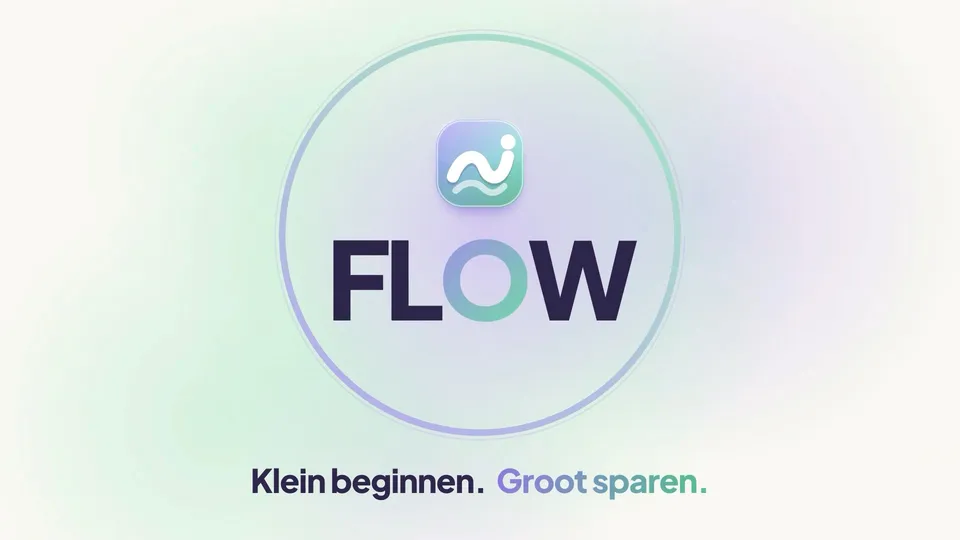
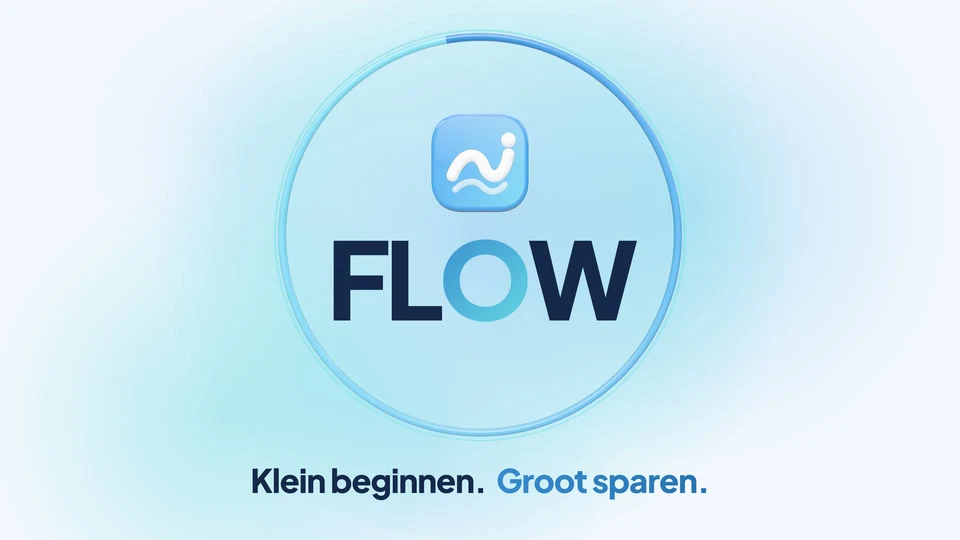
FLOW: nieuwe 3D-video (lichtblauw) + nieuwe poster

diff --git a/index.html b/index.html
@@ -33,7 +33,7 @@
 <link rel="stylesheet" href="/assets/css/main.css?v=7d7f9968">
 <script>document.documentElement.classList.add('js')</script>
 <script data-goatcounter="https://storiomedia.goatcounter.com/count" async src="https://gc.zgo.at/count.js"></script>
-<script type="application/ld+json">{"@context": "https://schema.org", "@graph": [{"@type": "Organization", "@id": "https://storiomedia.nl/#organization", "name": "Storio Media", "url": "https://storiomedia.nl", "logo": {"@type": "ImageObject", "url": "https://storiomedia.nl/assets/img/favicon.png"}, "image": "https://storiomedia.nl/assets/media/og-storio.jpg", "slogan": "Video's die opvallen. Slim gemaakt met AI.", "description": "Storio Media is een creatief videoproductiebedrijf dat hoogwaardige AI-video's maakt voor bedrijven, merken en organisaties: van concept en script tot AI-generatie, voice-over en montage.", "email": "info@storiomedia.nl", "telephone": "+31651969025", "foundingDate": "2026", "founder": {"@id": "https://storiomedia.nl/#hielke"}, "address": {"@type": "PostalAddress", "addressLocality": "Utrecht", "addressCountry": "NL"}, "contactPoint": {"@type": "ContactPoint", "contactType": "sales", "email": "info@storiomedia.nl", "telephone": "+31651969025", "availableLanguage": ["nl", "en"]}, "brand": {"@type": "Brand", "name": "Storio Media", "slogan": "Video's die opvallen. Slim gemaakt met AI."}, "parentOrganization": {"@type": "Organization", "name": "Storio", "url": "https://storiopodcasts.nl"}, "areaServed": {"@type": "Country", "name": "Nederland"}, "sameAs": ["https://www.linkedin.com/company/storiomedia/", "https://www.instagram.com/storiomedia/", "https://www.youtube.com/@StorioMedia"], "knowsAbout": ["AI-videoproductie", "generatieve AI video", "AI bedrijfsfilm", "AI commercial", "AI animatie", "videomontage", "voice-over", "sound design"], "hasOfferCatalog": {"@type": "OfferCatalog", "name": "AI-videoproductie", "itemListElement": [{"@type": "Offer", "name": "AI-video 30 seconden", "price": 600, "priceCurrency": "EUR", "priceSpecification": {"@type": "PriceSpecification", "price": 600, "priceCurrency": "EUR", "valueAddedTaxIncluded": false}, "itemOffered": {"@type": "Service", "name": "AI-video van 30 seconden", "description": "Ideaal voor social, een commercial of een korte merkvideo."}}, {"@type": "Offer", "name": "AI-video 1 minuut", "price": 1000, "priceCurrency": "EUR", "priceSpecification": {"@type": "PriceSpecification", "price": 1000, "priceCurrency": "EUR", "valueAddedTaxIncluded": false}, "itemOffered": {"@type": "Service", "name": "AI-video van 1 minuut", "description": "Ruimte voor een verhaal: explainer, bedrijfsfilm of launch."}}, {"@type": "Offer", "itemOffered": {"@type": "Service", "name": "Concept & Script", "description": "Doel, doelgroep en boodschap vertaald naar een sterk concept en script."}}, {"@type": "Offer", "itemOffered": {"@type": "Service", "name": "AI Video Production", "description": "Scènes, personages en locaties in één consistente beeldstijl."}}, {"@type": "Offer", "itemOffered": {"@type": "Service", "name": "Voice & Audio", "description": "Voice-over, muziek en sound design. Onze roots liggen in audio."}}, {"@type": "Offer", "itemOffered": {"@type": "Service", "name": "Editing & Post-production", "description": "Montage, kleur, titels, graphics en animatie tot één film."}}, {"@type": "Offer", "itemOffered": {"@type": "Service", "name": "Social & Variaties", "description": "Versies voor elk kanaal, formaat en elke taal, uit één productie."}}]}}, {"@type": "Person", "@id": "https://storiomedia.nl/#hielke", "name": "Hielke Boersma", "jobTitle": "Oprichter Storio Media", "description": "Radio-dj bij SLAM!, presentator, dagvoorzitter en voice-over; oprichter van Storio Media en Storio Podcasts.", "image": "https://storiomedia.nl/assets/img/hielke.jpg", "url": "https://storiomedia.nl/over-storio-media/", "worksFor": {"@id": "https://storiomedia.nl/#organization"}, "knowsAbout": ["AI-videoproductie", "videomarketing", "voice-over", "podcastproductie", "radio", "presentatie"], "sameAs": ["https://hielkeboersma.com", "https://storiopodcasts.nl"]}, {"@type": "WebSite", "@id": "https://storiomedia.nl/#website", "url": "https://storiomedia.nl", "name": "Storio Media", "inLanguage": "nl-NL", "publisher": {"@id": "https://storiomedia.nl/#organization"}}, {"@type": "WebPage", "@id": "https://storiomedia.nl/#webpage", "url": "https://storiomedia.nl/", "name": "AI-video laten maken vanaf € 600 | Storio Media", "description": "Storio Media maakt met AI complete video's voor bedrijven: commercials, bedrijfsfilms, explainers en social content. 30 seconden € 600, 1 minuut € 1.000.", "isPartOf": {"@id": "https://storiomedia.nl/#website"}, "about": {"@id": "https://storiomedia.nl/#organization"}, "inLanguage": "nl-NL"}, {"@type": "FAQPage", "mainEntity": [{"@type": "Question", "name": "Wat is een AI-video?", "acceptedAnswer": {"@type": "Answer", "text": "Een AI-video is een video waarvan de beelden, en vaak ook de stem en muziek, met generatieve AI worden gemaakt. Bij Storio Media combineren we die techniek met vakmanschap: we schrijven het concept en script, bepalen de beeldstijl, maken de scènes en monteren alles tot een professionele bedrijfsfilm, commercial of explainer."}}, {"@type": "Question", "name": "Wat kost een AI-video laten maken?", "acceptedAnswer": {"@type": "Answer", "text": "Een video van 30 seconden kost € 600 en een video van 1 minuut € 1.000 (excl. btw). Daarin zit alles: concept en script, de AI-beelden, voice-over, muziek en montage. Wil je een langere video of meerdere versies? Dan krijg je een voorstel op maat."}}, {"@type": "Question", "name": "Hoe lang duurt het om een AI-video te maken?", "acceptedAnswer": {"@type": "Answer", "text": "Een gemiddelde productie van briefing tot eindfilm duurt meestal twee tot vier weken. Heb je een deadline? Laat het ons weten, dan plannen we het proces daarop."}}, {"@type": "Question", "name": "Kunnen bestaande beelden worden gecombineerd met AI?", "acceptedAnswer": {"@type": "Answer", "text": "Ja. Bestaand videomateriaal, productfoto's, je huisstijl, logo's en screenshots van software kunnen we verwerken in de productie. Denk aan echte interviews aangevuld met AI-scènes, of een bestaand product dat in een nieuwe omgeving wordt geplaatst. Zo blijft de video herkenbaar van jou."}}, {"@type": "Question", "name": "Kunnen video's in meerdere talen worden gemaakt?", "acceptedAnswer": {"@type": "Answer", "text": "Ja, en dat is een van de grote voordelen van AI-videoproductie. Van één productie maken we eenvoudig versies in het Engels, Duits, Frans of andere talen, inclusief vertaalde voice-over, ondertiteling en aangepaste teksten in beeld. Ideaal voor internationale organisaties die één boodschap in meerdere markten willen brengen."}}, {"@type": "Question", "name": "Is AI-video geschikt voor mijn bedrijf?", "acceptedAnswer": {"@type": "Answer", "text": "AI-video werkt vooral goed als je iets wilt laten zien dat lastig, duur of onmogelijk te filmen is: internationale locaties, toekomstscenario's, complexe processen of producten die nog niet af zijn. Ook als je regelmatig nieuwe videocontent nodig hebt, is het interessant. Voor een eerlijk portret van je team of een klantinterview is een camera soms juist beter. In een kennismaking vertellen we je graag wat bij jouw idee past."}}]}, {"@type": "VideoObject", "name": "VOLTA", "description": "Een explainer van 30 seconden voor VOLTA, een thuisbatterij die je zonnestroom bewaart voor 's avonds. In één doorlopende 3D-doorsnede van een Nederlands rijtjeshuis zie je de dag overgaan in de avond: overdag vullen de zonnepanelen de batterij, 's avonds gaat die stroom naar de keuken, de tv en de auto. Dag en nacht zonnestroom.", "thumbnailUrl": "https://storiomedia.nl/assets/media/cases/volta/poster.jpg", "uploadDate": "2026-01-01", "embedUrl": "https://www.youtube.com/embed/qscBy7h0au4", "creator": {"@id": "https://storiomedia.nl/#organization"}, "genre": "Explainer"}, {"@type": "VideoObject", "name": "New possibilities", "description": "Een launchvideo van bijna twee minuten voor de introductie van een nieuw merk. De film toont een zonsopkomst, mensen aan het werk en toepassingen van technologie, en eindigt met de onthulling van het merk. Alle beelden zijn met AI gemaakt. Storio Media verzorgde concept, productie en montage.", "thumbnailUrl": "https://storiomedia.nl/assets/media/cases/reveal-nieuw-bedrijf/poster.jpg", "uploadDate": "2026-01-01", "embedUrl": "https://www.youtube.com/embed/39-cYFDPtw4", "creator": {"@id": "https://storiomedia.nl/#organization"}, "genre": "Launchvideo"}, {"@type": "VideoObject", "name": "FLOW", "description": "Een explainer van 30 seconden voor FLOW, een spaar-app die je dagelijkse aankopen afrondt en het verschil opzij zet voor je spaardoel. Van het koppelen van je rekening en het kiezen van een spaardoel tot een spaarpot die zich vult: in heldere 3D-animatie laat de video zien hoe makkelijk sparen kan. Klein beginnen. Groot sparen.", "thumbnailUrl": "https://storiomedia.nl/assets/media/cases/flow/poster.jpg", "uploadDate": "2026-01-01", "embedUrl": "https://www.youtube.com/embed/Y5VqYN_y-sk", "creator": {"@id": "https://storiomedia.nl/#organization"}, "genre": "Explainer"}, {"@type": "VideoObject", "name": "Rondje", "description": "Een verticale social-video van 20 seconden voor Rondje, een statiegeldbeker voor koffie in Amsterdam. In een speelse, geanimeerde stadsillustratie reist de beker door de stad: gevuld bij een koffiebar, mee op de pont en de fiets, en ingeleverd bij een ander tentje. Gemaakt voor Reels, TikTok en Shorts. Koffie die rond gaat.", "thumbnailUrl": "https://storiomedia.nl/assets/media/cases/rondje/poster.jpg", "uploadDate": "2026-01-01", "embedUrl": "https://www.youtube.com/embed/qVS526AXBrU", "creator": {"@id": "https://storiomedia.nl/#organization"}, "genre": "Social video"}, {"@type": "VideoObject", "name": "Storio Media: ons nieuwste werk", "description": "Storio Media maakt met AI complete video's voor bedrijven: commercials, bedrijfsfilms, explainers en social content. 30 seconden € 600, 1 minuut € 1.000.", "thumbnailUrl": "https://storiomedia.nl/assets/media/placeholders/showreel.jpg", "uploadDate": "2026-10-19", "embedUrl": "https://www.youtube.com/embed/39-cYFDPtw4"}]}</script>
+<script type="application/ld+json">{"@context": "https://schema.org", "@graph": [{"@type": "Organization", "@id": "https://storiomedia.nl/#organization", "name": "Storio Media", "url": "https://storiomedia.nl", "logo": {"@type": "ImageObject", "url": "https://storiomedia.nl/assets/img/favicon.png"}, "image": "https://storiomedia.nl/assets/media/og-storio.jpg", "slogan": "Video's die opvallen. Slim gemaakt met AI.", "description": "Storio Media is een creatief videoproductiebedrijf dat hoogwaardige AI-video's maakt voor bedrijven, merken en organisaties: van concept en script tot AI-generatie, voice-over en montage.", "email": "info@storiomedia.nl", "telephone": "+31651969025", "foundingDate": "2026", "founder": {"@id": "https://storiomedia.nl/#hielke"}, "address": {"@type": "PostalAddress", "addressLocality": "Utrecht", "addressCountry": "NL"}, "contactPoint": {"@type": "ContactPoint", "contactType": "sales", "email": "info@storiomedia.nl", "telephone": "+31651969025", "availableLanguage": ["nl", "en"]}, "brand": {"@type": "Brand", "name": "Storio Media", "slogan": "Video's die opvallen. Slim gemaakt met AI."}, "parentOrganization": {"@type": "Organization", "name": "Storio", "url": "https://storiopodcasts.nl"}, "areaServed": {"@type": "Country", "name": "Nederland"}, "sameAs": ["https://www.linkedin.com/company/storiomedia/", "https://www.instagram.com/storiomedia/", "https://www.youtube.com/@StorioMedia"], "knowsAbout": ["AI-videoproductie", "generatieve AI video", "AI bedrijfsfilm", "AI commercial", "AI animatie", "videomontage", "voice-over", "sound design"], "hasOfferCatalog": {"@type": "OfferCatalog", "name": "AI-videoproductie", "itemListElement": [{"@type": "Offer", "name": "AI-video 30 seconden", "price": 600, "priceCurrency": "EUR", "priceSpecification": {"@type": "PriceSpecification", "price": 600, "priceCurrency": "EUR", "valueAddedTaxIncluded": false}, "itemOffered": {"@type": "Service", "name": "AI-video van 30 seconden", "description": "Ideaal voor social, een commercial of een korte merkvideo."}}, {"@type": "Offer", "name": "AI-video 1 minuut", "price": 1000, "priceCurrency": "EUR", "priceSpecification": {"@type": "PriceSpecification", "price": 1000, "priceCurrency": "EUR", "valueAddedTaxIncluded": false}, "itemOffered": {"@type": "Service", "name": "AI-video van 1 minuut", "description": "Ruimte voor een verhaal: explainer, bedrijfsfilm of launch."}}, {"@type": "Offer", "itemOffered": {"@type": "Service", "name": "Concept & Script", "description": "Doel, doelgroep en boodschap vertaald naar een sterk concept en script."}}, {"@type": "Offer", "itemOffered": {"@type": "Service", "name": "AI Video Production", "description": "Scènes, personages en locaties in één consistente beeldstijl."}}, {"@type": "Offer", "itemOffered": {"@type": "Service", "name": "Voice & Audio", "description": "Voice-over, muziek en sound design. Onze roots liggen in audio."}}, {"@type": "Offer", "itemOffered": {"@type": "Service", "name": "Editing & Post-production", "description": "Montage, kleur, titels, graphics en animatie tot één film."}}, {"@type": "Offer", "itemOffered": {"@type": "Service", "name": "Social & Variaties", "description": "Versies voor elk kanaal, formaat en elke taal, uit één productie."}}]}}, {"@type": "Person", "@id": "https://storiomedia.nl/#hielke", "name": "Hielke Boersma", "jobTitle": "Oprichter Storio Media", "description": "Radio-dj bij SLAM!, presentator, dagvoorzitter en voice-over; oprichter van Storio Media en Storio Podcasts.", "image": "https://storiomedia.nl/assets/img/hielke.jpg", "url": "https://storiomedia.nl/over-storio-media/", "worksFor": {"@id": "https://storiomedia.nl/#organization"}, "knowsAbout": ["AI-videoproductie", "videomarketing", "voice-over", "podcastproductie", "radio", "presentatie"], "sameAs": ["https://hielkeboersma.com", "https://storiopodcasts.nl"]}, {"@type": "WebSite", "@id": "https://storiomedia.nl/#website", "url": "https://storiomedia.nl", "name": "Storio Media", "inLanguage": "nl-NL", "publisher": {"@id": "https://storiomedia.nl/#organization"}}, {"@type": "WebPage", "@id": "https://storiomedia.nl/#webpage", "url": "https://storiomedia.nl/", "name": "AI-video laten maken vanaf € 600 | Storio Media", "description": "Storio Media maakt met AI complete video's voor bedrijven: commercials, bedrijfsfilms, explainers en social content. 30 seconden € 600, 1 minuut € 1.000.", "isPartOf": {"@id": "https://storiomedia.nl/#website"}, "about": {"@id": "https://storiomedia.nl/#organization"}, "inLanguage": "nl-NL"}, {"@type": "FAQPage", "mainEntity": [{"@type": "Question", "name": "Wat is een AI-video?", "acceptedAnswer": {"@type": "Answer", "text": "Een AI-video is een video waarvan de beelden, en vaak ook de stem en muziek, met generatieve AI worden gemaakt. Bij Storio Media combineren we die techniek met vakmanschap: we schrijven het concept en script, bepalen de beeldstijl, maken de scènes en monteren alles tot een professionele bedrijfsfilm, commercial of explainer."}}, {"@type": "Question", "name": "Wat kost een AI-video laten maken?", "acceptedAnswer": {"@type": "Answer", "text": "Een video van 30 seconden kost € 600 en een video van 1 minuut € 1.000 (excl. btw). Daarin zit alles: concept en script, de AI-beelden, voice-over, muziek en montage. Wil je een langere video of meerdere versies? Dan krijg je een voorstel op maat."}}, {"@type": "Question", "name": "Hoe lang duurt het om een AI-video te maken?", "acceptedAnswer": {"@type": "Answer", "text": "Een gemiddelde productie van briefing tot eindfilm duurt meestal twee tot vier weken. Heb je een deadline? Laat het ons weten, dan plannen we het proces daarop."}}, {"@type": "Question", "name": "Kunnen bestaande beelden worden gecombineerd met AI?", "acceptedAnswer": {"@type": "Answer", "text": "Ja. Bestaand videomateriaal, productfoto's, je huisstijl, logo's en screenshots van software kunnen we verwerken in de productie. Denk aan echte interviews aangevuld met AI-scènes, of een bestaand product dat in een nieuwe omgeving wordt geplaatst. Zo blijft de video herkenbaar van jou."}}, {"@type": "Question", "name": "Kunnen video's in meerdere talen worden gemaakt?", "acceptedAnswer": {"@type": "Answer", "text": "Ja, en dat is een van de grote voordelen van AI-videoproductie. Van één productie maken we eenvoudig versies in het Engels, Duits, Frans of andere talen, inclusief vertaalde voice-over, ondertiteling en aangepaste teksten in beeld. Ideaal voor internationale organisaties die één boodschap in meerdere markten willen brengen."}}, {"@type": "Question", "name": "Is AI-video geschikt voor mijn bedrijf?", "acceptedAnswer": {"@type": "Answer", "text": "AI-video werkt vooral goed als je iets wilt laten zien dat lastig, duur of onmogelijk te filmen is: internationale locaties, toekomstscenario's, complexe processen of producten die nog niet af zijn. Ook als je regelmatig nieuwe videocontent nodig hebt, is het interessant. Voor een eerlijk portret van je team of een klantinterview is een camera soms juist beter. In een kennismaking vertellen we je graag wat bij jouw idee past."}}]}, {"@type": "VideoObject", "name": "VOLTA", "description": "Een explainer van 30 seconden voor VOLTA, een thuisbatterij die je zonnestroom bewaart voor 's avonds. In één doorlopende 3D-doorsnede van een Nederlands rijtjeshuis zie je de dag overgaan in de avond: overdag vullen de zonnepanelen de batterij, 's avonds gaat die stroom naar de keuken, de tv en de auto. Dag en nacht zonnestroom.", "thumbnailUrl": "https://storiomedia.nl/assets/media/cases/volta/poster.jpg", "uploadDate": "2026-01-01", "embedUrl": "https://www.youtube.com/embed/qscBy7h0au4", "creator": {"@id": "https://storiomedia.nl/#organization"}, "genre": "Explainer"}, {"@type": "VideoObject", "name": "New possibilities", "description": "Een launchvideo van bijna twee minuten voor de introductie van een nieuw merk. De film toont een zonsopkomst, mensen aan het werk en toepassingen van technologie, en eindigt met de onthulling van het merk. Alle beelden zijn met AI gemaakt. Storio Media verzorgde concept, productie en montage.", "thumbnailUrl": "https://storiomedia.nl/assets/media/cases/reveal-nieuw-bedrijf/poster.jpg", "uploadDate": "2026-01-01", "embedUrl": "https://www.youtube.com/embed/39-cYFDPtw4", "creator": {"@id": "https://storiomedia.nl/#organization"}, "genre": "Launchvideo"}, {"@type": "VideoObject", "name": "FLOW", "description": "Een explainer van 30 seconden voor FLOW, een spaar-app die je dagelijkse aankopen afrondt en het verschil opzij zet voor je spaardoel. Van het koppelen van je rekening en het kiezen van een spaardoel tot een spaarpot die zich vult: in heldere 3D-animatie laat de video zien hoe makkelijk sparen kan. Klein beginnen. Groot sparen.", "thumbnailUrl": "https://storiomedia.nl/assets/media/cases/flow/poster.jpg", "uploadDate": "2026-01-01", "embedUrl": "https://www.youtube.com/embed/sYH4j31c0ng", "creator": {"@id": "https://storiomedia.nl/#organization"}, "genre": "Explainer"}, {"@type": "VideoObject", "name": "Rondje", "description": "Een verticale social-video van 20 seconden voor Rondje, een statiegeldbeker voor koffie in Amsterdam. In een speelse, geanimeerde stadsillustratie reist de beker door de stad: gevuld bij een koffiebar, mee op de pont en de fiets, en ingeleverd bij een ander tentje. Gemaakt voor Reels, TikTok en Shorts. Koffie die rond gaat.", "thumbnailUrl": "https://storiomedia.nl/assets/media/cases/rondje/poster.jpg", "uploadDate": "2026-01-01", "embedUrl": "https://www.youtube.com/embed/qVS526AXBrU", "creator": {"@id": "https://storiomedia.nl/#organization"}, "genre": "Social video"}, {"@type": "VideoObject", "name": "Storio Media: ons nieuwste werk", "description": "Storio Media maakt met AI complete video's voor bedrijven: commercials, bedrijfsfilms, explainers en social content. 30 seconden € 600, 1 minuut € 1.000.", "thumbnailUrl": "https://storiomedia.nl/assets/media/placeholders/showreel.jpg", "uploadDate": "2026-10-19", "embedUrl": "https://www.youtube.com/embed/39-cYFDPtw4"}]}</script>
 </head>
 <body>
 
@@ -98,7 +98,7 @@
   <div class="case-body"><span class="case-client">Brand launch</span><h3>New possibilities</h3><p>Een launchvideo van bijna twee minuten voor de introductie van een nieuw merk. De film toont een zonsopkomst, mensen aan het werk en toepassingen van technologie, en eindigt met de onthulling van het merk. Alle beelden zijn met AI gemaakt. Storio Media verzorgde concept, productie en montage.</p></div>
 </article>
 <article class="case-card" data-reveal style="--d:0.0s">
-  <button class="media" data-inline-yt="Y5VqYN_y-sk" aria-label="Speel de video af: FLOW">
+  <button class="media" data-inline-yt="sYH4j31c0ng" aria-label="Speel de video af: FLOW">
     <picture><source type="image/webp" srcset="/assets/media/cases/flow/poster-960.webp 960w, /assets/media/cases/flow/poster.webp 1920w" sizes="(max-width: 640px) 100vw, 50vw"><img src="/assets/media/cases/flow/poster.jpg" srcset="/assets/media/cases/flow/poster-960.jpg 960w, /assets/media/cases/flow/poster.jpg 1920w" sizes="(max-width: 640px) 100vw, 50vw" width="1920" height="1080" alt="FLOW — App-explainer" loading="lazy" decoding="async"></picture>
     <span class="case-badge">Explainer · 0:30</span>
     <span class="play"><span class="play-dot"><svg viewBox="0 0 24 24" aria-hidden="true"><path d="M7 4.5v15l13-7.5z"/></svg></span></span>
